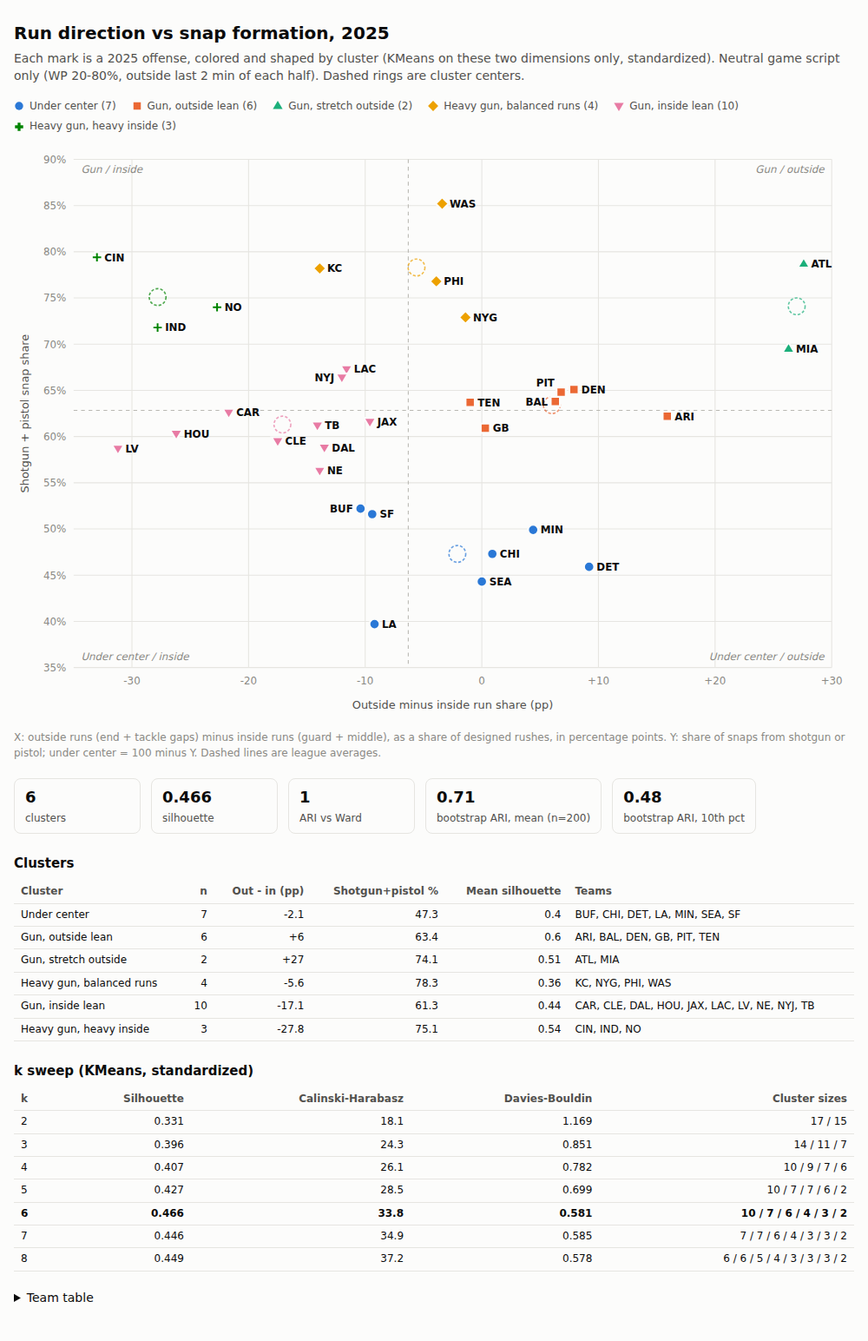
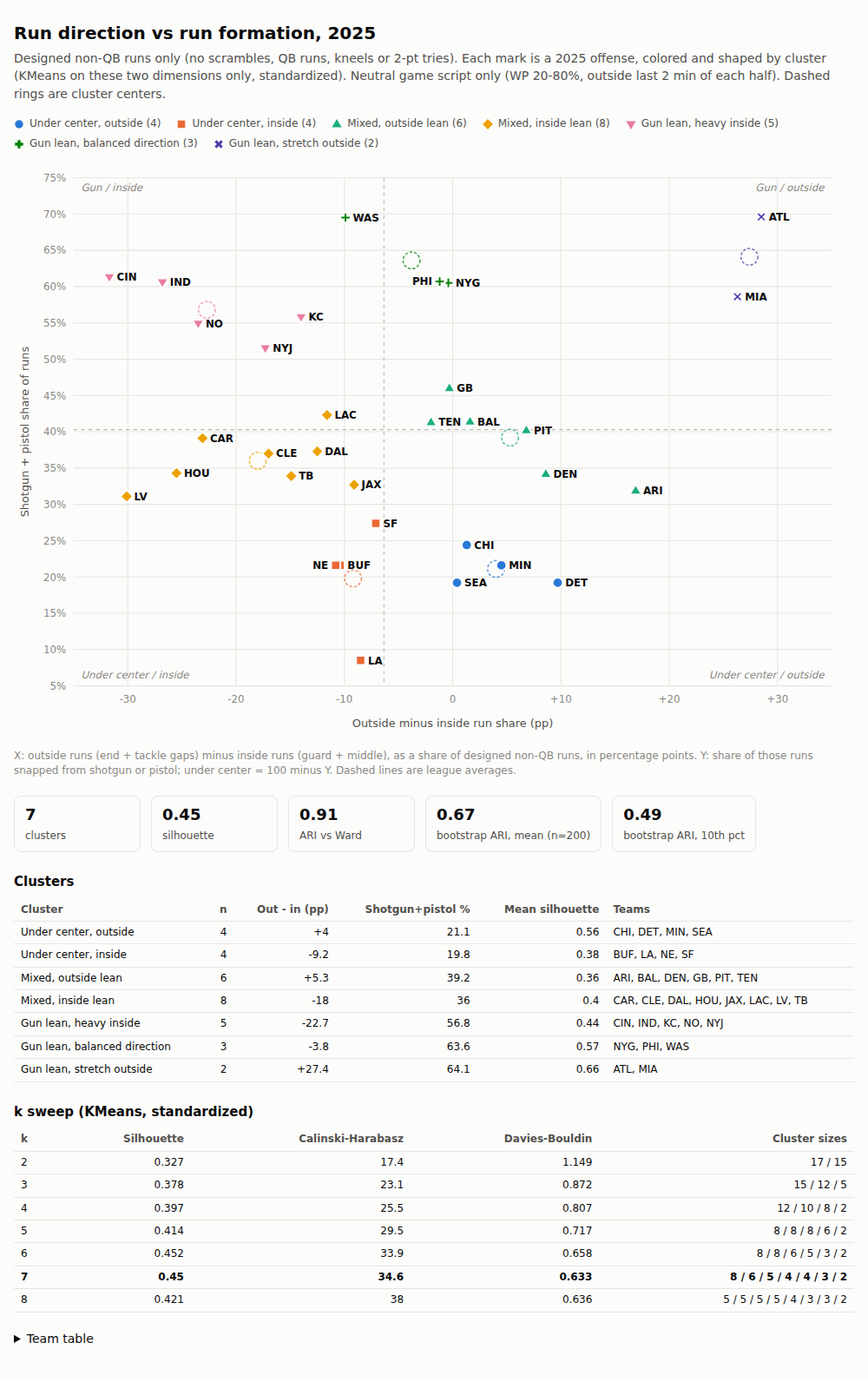
Recompute run direction and shotgun share on designed non-QB runs only; k=7
Claude-Session: https://claude.ai/code/session_019aSyvrggK4BuK9kNQDeVgm

diff --git a/output/run_formation_scatter_2025.html b/output/run_formation_scatter_2025.html
@@ -14,7 +14,7 @@
   --grid: #e6e5e1;
   --axis: #b9b8b2;
   --series-1: #2a78d6;
-  --c0: #2a78d6; --c1: #eb6834; --c2: #1baf7a; --c3: #eda100; --c4: #e87ba4; --c5: #008300;
+  --c0: #2a78d6; --c1: #eb6834; --c2: #1baf7a; --c3: #eda100; --c4: #e87ba4; --c5: #008300; --c6: #4a3aa7;
 }
 @media (prefers-color-scheme: dark) {
   :root:not([data-theme="light"]) {
@@ -26,7 +26,7 @@
     --grid: #2e2e2c;
     --axis: #55544f;
     --series-1: #3987e5;
-    --c0: #3987e5; --c1: #d95926; --c2: #199e70; --c3: #c98500; --c4: #d55181; --c5: #008300;
+    --c0: #3987e5; --c1: #d95926; --c2: #199e70; --c3: #c98500; --c4: #d55181; --c5: #008300; --c6: #9085e9;
   }
 }
 :root[data-theme="dark"] {
@@ -38,7 +38,7 @@
   --grid: #2e2e2c;
   --axis: #55544f;
   --series-1: #3987e5;
---c0: #3987e5; --c1: #d95926; --c2: #199e70; --c3: #c98500; --c4: #d55181; --c5: #008300;
+--c0: #3987e5; --c1: #d95926; --c2: #199e70; --c3: #c98500; --c4: #d55181; --c5: #008300; --c6: #9085e9;
 }
 body { margin: 0; background: var(--surface-1); color: var(--text-primary);
   font: 14px/1.45 system-ui, -apple-system, "Segoe UI", sans-serif; }
@@ -82,11 +82,11 @@ tr.pick td { font-weight: 700; }
 </head>
 <body>
 <main>
-  <h1>Run direction vs snap formation, 2025</h1>
-  <p class="sub">Each mark is a 2025 offense, colored and shaped by cluster (KMeans on these two dimensions only, standardized). Neutral game script only (WP 20-80%, outside last 2 min of each half). Dashed rings are cluster centers.</p>
+  <h1>Run direction vs run formation, 2025</h1>
+  <p class="sub">Designed non-QB runs only (no scrambles, QB runs, kneels or 2-pt tries). Each mark is a 2025 offense, colored and shaped by cluster (KMeans on these two dimensions only, standardized). Neutral game script only (WP 20-80%, outside last 2 min of each half). Dashed rings are cluster centers.</p>
   <div class="legend" id="legend"></div>
   <svg id="chart" viewBox="0 0 900 620" role="img" aria-label="Scatter of 32 NFL offenses"></svg>
-  <p class="note">X: outside runs (end + tackle gaps) minus inside runs (guard + middle), as a share of designed rushes, in percentage points. Y: share of snaps from shotgun or pistol; under center = 100 minus Y. Dashed lines are league averages.</p>
+  <p class="note">X: outside runs (end + tackle gaps) minus inside runs (guard + middle), as a share of designed non-QB runs, in percentage points. Y: share of those runs snapped from shotgun or pistol; under center = 100 minus Y. Dashed lines are league averages.</p>
   <div class="stats" id="stats"></div>
   <h2>Clusters</h2>
   <table id="ctbl"></table>
@@ -99,7 +99,7 @@ tr.pick td { font-weight: 700; }
 </main>
 <div id="tip"></div>
 <script>
-const payload = {"points": [{"team": "ARI", "x": 15.9, "y": 62.2, "outside": 58.0, "inside": 42.0, "uc": 37.8, "pistol": 3.1, "rush_n": 176, "cluster": 1, "cluster_name": "Gun, outside lean", "sil": 0.38}, {"team": "ATL", "x": 27.6, "y": 78.7, "outside": 63.8, "inside": 36.2, "uc": 21.3, "pistol": 34.8, "rush_n": 279, "cluster": 2, "cluster_name": "Gun, stretch outside", "sil": 0.58}, {"team": "BAL", "x": 6.3, "y": 63.8, "outside": 53.1, "inside": 46.9, "uc": 36.2, "pistol": 7.3, "rush_n": 271, "cluster": 1, "cluster_name": "Gun, outside lean", "sil": 0.76}, {"team": "BUF", "x": -10.4, "y": 52.2, "outside": 44.8, "inside": 55.2, "uc": 47.8, "pistol": 2.0, "rush_n": 288, "cluster": 0, "cluster_name": "Under center", "sil": 0.1}, {"team": "CAR", "x": -21.7, "y": 62.6, "outside": 39.1, "inside": 60.9, "uc": 37.4, "pistol": 9.5, "rush_n": 276, "cluster": 4, "cluster_name": "Gun, inside lean", "sil": 0.47}, {"team": "CHI", "x": 0.9, "y": 47.3, "outside": 50.5, "inside": 49.5, "uc": 52.7, "pistol": 2.3, "rush_n": 319, "cluster": 0, "cluster_name": "Under center", "sil": 0.59}, {"team": "CIN", "x": -33.0, "y": 79.4, "outside": 33.5, "inside": 66.5, "uc": 20.6, "pistol": 3.6, "rush_n": 206, "cluster": 5, "cluster_name": "Heavy gun, heavy inside", "sil": 0.57}, {"team": "CLE", "x": -17.5, "y": 59.5, "outside": 41.2, "inside": 58.8, "uc": 40.5, "pistol": 2.8, "rush_n": 257, "cluster": 4, "cluster_name": "Gun, inside lean", "sil": 0.65}, {"team": "DAL", "x": -13.5, "y": 58.8, "outside": 43.2, "inside": 56.8, "uc": 41.2, "pistol": 2.5, "rush_n": 259, "cluster": 4, "cluster_name": "Gun, inside lean", "sil": 0.57}, {"team": "DEN", "x": 7.9, "y": 65.1, "outside": 54.0, "inside": 46.0, "uc": 34.9, "pistol": 5.1, "rush_n": 291, "cluster": 1, "cluster_name": "Gun, outside lean", "sil": 0.73}, {"team": "DET", "x": 9.2, "y": 45.9, "outside": 54.6, "inside": 45.4, "uc": 54.1, "pistol": 0.5, "rush_n": 260, "cluster": 0, "cluster_name": "Under center", "sil": 0.41}, {"team": "GB", "x": 0.3, "y": 60.9, "outside": 50.2, "inside": 49.8, "uc": 39.1, "pistol": 7.0, "rush_n": 303, "cluster": 1, "cluster_name": "Gun, outside lean", "sil": 0.51}, {"team": "HOU", "x": -26.2, "y": 60.3, "outside": 36.9, "inside": 63.1, "uc": 39.7, "pistol": 0.0, "rush_n": 282, "cluster": 4, "cluster_name": "Gun, inside lean", "sil": 0.41}, {"team": "IND", "x": -27.8, "y": 71.8, "outside": 36.1, "inside": 63.9, "uc": 28.2, "pistol": 4.5, "rush_n": 255, "cluster": 5, "cluster_name": "Heavy gun, heavy inside", "sil": 0.55}, {"team": "JAX", "x": -9.6, "y": 61.6, "outside": 45.2, "inside": 54.8, "uc": 38.4, "pistol": 3.0, "rush_n": 239, "cluster": 4, "cluster_name": "Gun, inside lean", "sil": 0.36}, {"team": "KC", "x": -13.9, "y": 78.2, "outside": 43.0, "inside": 57.0, "uc": 21.8, "pistol": 3.5, "rush_n": 244, "cluster": 3, "cluster_name": "Heavy gun, balanced runs", "sil": 0.16}, {"team": "LA", "x": -9.2, "y": 39.7, "outside": 45.4, "inside": 54.6, "uc": 60.3, "pistol": 0.1, "rush_n": 284, "cluster": 0, "cluster_name": "Under center", "sil": 0.47}, {"team": "LAC", "x": -11.6, "y": 67.3, "outside": 44.2, "inside": 55.8, "uc": 32.7, "pistol": 4.1, "rush_n": 224, "cluster": 4, "cluster_name": "Gun, inside lean", "sil": 0.29}, {"team": "LV", "x": -31.2, "y": 58.7, "outside": 34.4, "inside": 65.6, "uc": 41.3, "pistol": 4.2, "rush_n": 218, "cluster": 4, "cluster_name": "Gun, inside lean", "sil": 0.28}, {"team": "MIA", "x": 26.3, "y": 69.5, "outside": 63.1, "inside": 36.9, "uc": 30.5, "pistol": 20.2, "rush_n": 198, "cluster": 2, "cluster_name": "Gun, stretch outside", "sil": 0.43}, {"team": "MIN", "x": 4.4, "y": 49.9, "outside": 52.2, "inside": 47.8, "uc": 50.1, "pistol": 0.9, "rush_n": 228, "cluster": 0, "cluster_name": "Under center", "sil": 0.4}, {"team": "NE", "x": -13.9, "y": 56.3, "outside": 43.1, "inside": 56.9, "uc": 43.7, "pistol": 0.1, "rush_n": 274, "cluster": 4, "cluster_name": "Gun, inside lean", "sil": 0.41}, {"team": "NO", "x": -22.7, "y": 74.0, "outside": 38.7, "inside": 61.3, "uc": 26.0, "pistol": 4.0, "rush_n": 256, "cluster": 5, "cluster_name": "Heavy gun, heavy inside", "sil": 0.51}, {"team": "NYG", "x": -1.4, "y": 72.9, "outside": 49.3, "inside": 50.7, "uc": 27.1, "pistol": 7.8, "rush_n": 276, "cluster": 3, "cluster_name": "Heavy gun, balanced runs", "sil": 0.21}, {"team": "NYJ", "x": -12.0, "y": 66.4, "outside": 44.0, "inside": 56.0, "uc": 33.6, "pistol": 5.2, "rush_n": 225, "cluster": 4, "cluster_name": "Gun, inside lean", "sil": 0.39}, {"team": "PHI", "x": -3.9, "y": 76.8, "outside": 48.0, "inside": 52.0, "uc": 23.2, "pistol": 6.5, "rush_n": 281, "cluster": 3, "cluster_name": "Heavy gun, balanced runs", "sil": 0.57}, {"team": "PIT", "x": 6.8, "y": 64.8, "outside": 53.4, "inside": 46.6, "uc": 35.2, "pistol": 2.4, "rush_n": 266, "cluster": 1, "cluster_name": "Gun, outside lean", "sil": 0.75}, {"team": "SEA", "x": 0.0, "y": 44.3, "outside": 50.0, "inside": 50.0, "uc": 55.7, "pistol": 3.6, "rush_n": 266, "cluster": 0, "cluster_name": "Under center", "sil": 0.62}, {"team": "SF", "x": -9.4, "y": 51.6, "outside": 45.3, "inside": 54.7, "uc": 48.4, "pistol": 2.6, "rush_n": 267, "cluster": 0, "cluster_name": "Under center", "sil": 0.22}, {"team": "TB", "x": -14.1, "y": 61.2, "outside": 43.0, "inside": 57.0, "uc": 38.8, "pistol": 4.3, "rush_n": 291, "cluster": 4, "cluster_name": "Gun, inside lean", "sil": 0.61}, {"team": "TEN", "x": -1.0, "y": 63.7, "outside": 49.5, "inside": 50.5, "uc": 36.3, "pistol": 2.6, "rush_n": 200, "cluster": 1, "cluster_name": "Gun, outside lean", "sil": 0.47}, {"team": "WAS", "x": -3.4, "y": 85.2, "outside": 48.3, "inside": 51.7, "uc": 14.8, "pistol": 19.7, "rush_n": 236, "cluster": 3, "cluster_name": "Heavy gun, balanced runs", "sil": 0.5}], "clusters": [{"name": "Under center", "teams": ["BUF", "CHI", "DET", "LA", "MIN", "SEA", "SF"], "x": -2.1, "y": 47.3, "sil": 0.4}, {"name": "Gun, outside lean", "teams": ["ARI", "BAL", "DEN", "GB", "PIT", "TEN"], "x": 6.0, "y": 63.4, "sil": 0.6}, {"name": "Gun, stretch outside", "teams": ["ATL", "MIA"], "x": 27.0, "y": 74.1, "sil": 0.51}, {"name": "Heavy gun, balanced runs", "teams": ["KC", "NYG", "PHI", "WAS"], "x": -5.6, "y": 78.3, "sil": 0.36}, {"name": "Gun, inside lean", "teams": ["CAR", "CLE", "DAL", "HOU", "JAX", "LAC", "LV", "NE", "NYJ", "TB"], "x": -17.1, "y": 61.3, "sil": 0.44}, {"name": "Heavy gun, heavy inside", "teams": ["CIN", "IND", "NO"], "x": -27.8, "y": 75.1, "sil": 0.54}], "sweep": [{"k": 2, "silhouette": 0.331, "calinski_harabasz": 18.1, "davies_bouldin": 1.169, "sizes": [17, 15]}, {"k": 3, "silhouette": 0.396, "calinski_harabasz": 24.3, "davies_bouldin": 0.851, "sizes": [14, 11, 7]}, {"k": 4, "silhouette": 0.407, "calinski_harabasz": 26.1, "davies_bouldin": 0.782, "sizes": [10, 9, 7, 6]}, {"k": 5, "silhouette": 0.427, "calinski_harabasz": 28.5, "davies_bouldin": 0.699, "sizes": [10, 7, 7, 6, 2]}, {"k": 6, "silhouette": 0.466, "calinski_harabasz": 33.8, "davies_bouldin": 0.581, "sizes": [10, 7, 6, 4, 3, 2]}, {"k": 7, "silhouette": 0.446, "calinski_harabasz": 34.9, "davies_bouldin": 0.585, "sizes": [7, 7, 6, 4, 3, 3, 2]}, {"k": 8, "silhouette": 0.449, "calinski_harabasz": 37.2, "davies_bouldin": 0.578, "sizes": [6, 6, 5, 4, 3, 3, 3, 2]}], "stats": {"k": 6, "silhouette": 0.466, "ward_ari": 1.0, "boot_ari_mean": 0.71, "boot_ari_p10": 0.48, "n_boot": 200}};
+const payload = {"points": [{"team": "ARI", "x": 16.9, "y": 31.9, "outside": 58.4, "inside": 41.6, "uc": 68.1, "pistol": 3.6, "rush_n": 166, "cluster": 2, "cluster_name": "Mixed, outside lean", "sil": 0.03}, {"team": "ATL", "x": 28.5, "y": 69.6, "outside": 64.3, "inside": 35.7, "uc": 30.4, "pistol": 59.8, "rush_n": 277, "cluster": 6, "cluster_name": "Gun lean, stretch outside", "sil": 0.68}, {"team": "BAL", "x": 1.6, "y": 41.4, "outside": 50.8, "inside": 49.2, "uc": 58.6, "pistol": 12.7, "rush_n": 251, "cluster": 2, "cluster_name": "Mixed, outside lean", "sil": 0.58}, {"team": "BUF", "x": -10.4, "y": 21.6, "outside": 44.8, "inside": 55.2, "uc": 78.4, "pistol": 1.2, "rush_n": 259, "cluster": 1, "cluster_name": "Under center, inside", "sil": 0.56}, {"team": "CAR", "x": -23.1, "y": 39.1, "outside": 38.5, "inside": 61.5, "uc": 60.9, "pistol": 14.2, "rush_n": 274, "cluster": 3, "cluster_name": "Mixed, inside lean", "sil": 0.44}, {"team": "CHI", "x": 1.3, "y": 24.4, "outside": 50.7, "inside": 49.3, "uc": 75.6, "pistol": 2.9, "rush_n": 307, "cluster": 0, "cluster_name": "Under center, outside", "sil": 0.51}, {"team": "CIN", "x": -31.7, "y": 61.3, "outside": 34.2, "inside": 65.8, "uc": 38.7, "pistol": 5.5, "rush_n": 199, "cluster": 4, "cluster_name": "Gun lean, heavy inside", "sil": 0.55}, {"team": "CLE", "x": -17.0, "y": 37.0, "outside": 41.5, "inside": 58.5, "uc": 63.0, "pistol": 3.5, "rush_n": 254, "cluster": 3, "cluster_name": "Mixed, inside lean", "sil": 0.58}, {"team": "DAL", "x": -12.5, "y": 37.3, "outside": 43.8, "inside": 56.2, "uc": 62.7, "pistol": 3.9, "rush_n": 256, "cluster": 3, "cluster_name": "Mixed, inside lean", "sil": 0.48}, {"team": "DEN", "x": 8.6, "y": 34.2, "outside": 54.3, "inside": 45.7, "uc": 65.8, "pistol": 6.7, "rush_n": 269, "cluster": 2, "cluster_name": "Mixed, outside lean", "sil": 0.25}, {"team": "DET", "x": 9.7, "y": 19.2, "outside": 54.8, "inside": 45.2, "uc": 80.8, "pistol": 0.8, "rush_n": 260, "cluster": 0, "cluster_name": "Under center, outside", "sil": 0.59}, {"team": "GB", "x": -0.3, "y": 46.0, "outside": 49.8, "inside": 50.2, "uc": 54.0, "pistol": 10.0, "rush_n": 291, "cluster": 2, "cluster_name": "Mixed, outside lean", "sil": 0.36}, {"team": "HOU", "x": -25.5, "y": 34.3, "outside": 37.2, "inside": 62.8, "uc": 65.7, "pistol": 0.0, "rush_n": 274, "cluster": 3, "cluster_name": "Mixed, inside lean", "sil": 0.5}, {"team": "IND", "x": -26.8, "y": 60.6, "outside": 36.6, "inside": 63.4, "uc": 39.4, "pistol": 7.3, "rush_n": 247, "cluster": 4, "cluster_name": "Gun lean, heavy inside", "sil": 0.6}, {"team": "JAX", "x": -9.1, "y": 32.7, "outside": 45.5, "inside": 54.5, "uc": 67.3, "pistol": 5.0, "rush_n": 220, "cluster": 3, "cluster_name": "Mixed, inside lean", "sil": 0.03}, {"team": "KC", "x": -14.0, "y": 55.8, "outside": 43.0, "inside": 57.0, "uc": 44.2, "pistol": 5.4, "rush_n": 242, "cluster": 4, "cluster_name": "Gun lean, heavy inside", "sil": 0.15}, {"team": "LA", "x": -8.5, "y": 8.5, "outside": 45.7, "inside": 54.3, "uc": 91.5, "pistol": 0.0, "rush_n": 282, "cluster": 1, "cluster_name": "Under center, inside", "sil": 0.19}, {"team": "LAC", "x": -11.6, "y": 42.3, "outside": 44.2, "inside": 55.8, "uc": 57.7, "pistol": 7.9, "rush_n": 215, "cluster": 3, "cluster_name": "Mixed, inside lean", "sil": 0.36}, {"team": "LV", "x": -30.1, "y": 31.1, "outside": 34.9, "inside": 65.1, "uc": 68.9, "pistol": 4.3, "rush_n": 209, "cluster": 3, "cluster_name": "Mixed, inside lean", "sil": 0.37}, {"team": "MIA", "x": 26.3, "y": 58.6, "outside": 63.1, "inside": 36.9, "uc": 41.4, "pistol": 31.3, "rush_n": 198, "cluster": 6, "cluster_name": "Gun lean, stretch outside", "sil": 0.64}, {"team": "MIN", "x": 4.5, "y": 21.6, "outside": 52.3, "inside": 47.7, "uc": 78.4, "pistol": 1.8, "rush_n": 222, "cluster": 0, "cluster_name": "Under center, outside", "sil": 0.68}, {"team": "NE", "x": -10.8, "y": 21.6, "outside": 44.6, "inside": 55.4, "uc": 78.4, "pistol": 0.4, "rush_n": 260, "cluster": 1, "cluster_name": "Under center, inside", "sil": 0.57}, {"team": "NO", "x": -23.5, "y": 54.9, "outside": 38.2, "inside": 61.8, "uc": 45.1, "pistol": 8.8, "rush_n": 204, "cluster": 4, "cluster_name": "Gun lean, heavy inside", "sil": 0.58}, {"team": "NYG", "x": -0.4, "y": 60.5, "outside": 49.8, "inside": 50.2, "uc": 39.5, "pistol": 16.1, "rush_n": 249, "cluster": 5, "cluster_name": "Gun lean, balanced direction", "sil": 0.68}, {"team": "NYJ", "x": -17.3, "y": 51.5, "outside": 41.3, "inside": 58.7, "uc": 48.5, "pistol": 8.2, "rush_n": 196, "cluster": 4, "cluster_name": "Gun lean, heavy inside", "sil": 0.34}, {"team": "PHI", "x": -1.2, "y": 60.7, "outside": 49.4, "inside": 50.6, "uc": 39.3, "pistol": 12.1, "rush_n": 247, "cluster": 5, "cluster_name": "Gun lean, balanced direction", "sil": 0.7}, {"team": "PIT", "x": 6.8, "y": 40.2, "outside": 53.4, "inside": 46.6, "uc": 59.8, "pistol": 3.8, "rush_n": 266, "cluster": 2, "cluster_name": "Mixed, outside lean", "sil": 0.55}, {"team": "SEA", "x": 0.4, "y": 19.2, "outside": 50.2, "inside": 49.8, "uc": 80.8, "pistol": 4.2, "rush_n": 265, "cluster": 0, "cluster_name": "Under center, outside", "sil": 0.46}, {"team": "SF", "x": -7.1, "y": 27.4, "outside": 46.4, "inside": 53.6, "uc": 72.6, "pistol": 4.4, "rush_n": 252, "cluster": 1, "cluster_name": "Under center, inside", "sil": 0.2}, {"team": "TB", "x": -14.9, "y": 33.9, "outside": 42.6, "inside": 57.4, "uc": 66.1, "pistol": 7.3, "rush_n": 289, "cluster": 3, "cluster_name": "Mixed, inside lean", "sil": 0.44}, {"team": "TEN", "x": -2.0, "y": 41.3, "outside": 49.0, "inside": 51.0, "uc": 58.7, "pistol": 4.1, "rush_n": 196, "cluster": 2, "cluster_name": "Mixed, outside lean", "sil": 0.41}, {"team": "WAS", "x": -9.9, "y": 69.5, "outside": 45.1, "inside": 54.9, "uc": 30.5, "pistol": 32.4, "rush_n": 213, "cluster": 5, "cluster_name": "Gun lean, balanced direction", "sil": 0.34}], "clusters": [{"name": "Under center, outside", "teams": ["CHI", "DET", "MIN", "SEA"], "x": 4.0, "y": 21.1, "sil": 0.56}, {"name": "Under center, inside", "teams": ["BUF", "LA", "NE", "SF"], "x": -9.2, "y": 19.8, "sil": 0.38}, {"name": "Mixed, outside lean", "teams": ["ARI", "BAL", "DEN", "GB", "PIT", "TEN"], "x": 5.3, "y": 39.2, "sil": 0.36}, {"name": "Mixed, inside lean", "teams": ["CAR", "CLE", "DAL", "HOU", "JAX", "LAC", "LV", "TB"], "x": -18.0, "y": 36.0, "sil": 0.4}, {"name": "Gun lean, heavy inside", "teams": ["CIN", "IND", "KC", "NO", "NYJ"], "x": -22.7, "y": 56.8, "sil": 0.44}, {"name": "Gun lean, balanced direction", "teams": ["NYG", "PHI", "WAS"], "x": -3.8, "y": 63.6, "sil": 0.57}, {"name": "Gun lean, stretch outside", "teams": ["ATL", "MIA"], "x": 27.4, "y": 64.1, "sil": 0.66}], "sweep": [{"k": 2, "silhouette": 0.327, "calinski_harabasz": 17.4, "davies_bouldin": 1.149, "sizes": [17, 15]}, {"k": 3, "silhouette": 0.378, "calinski_harabasz": 23.1, "davies_bouldin": 0.872, "sizes": [15, 12, 5]}, {"k": 4, "silhouette": 0.397, "calinski_harabasz": 25.5, "davies_bouldin": 0.807, "sizes": [12, 10, 8, 2]}, {"k": 5, "silhouette": 0.414, "calinski_harabasz": 29.5, "davies_bouldin": 0.717, "sizes": [8, 8, 8, 6, 2]}, {"k": 6, "silhouette": 0.452, "calinski_harabasz": 33.9, "davies_bouldin": 0.658, "sizes": [8, 8, 6, 5, 3, 2]}, {"k": 7, "silhouette": 0.45, "calinski_harabasz": 34.6, "davies_bouldin": 0.633, "sizes": [8, 6, 5, 4, 4, 3, 2]}, {"k": 8, "silhouette": 0.421, "calinski_harabasz": 38.0, "davies_bouldin": 0.636, "sizes": [5, 5, 5, 5, 4, 3, 3, 2]}], "stats": {"k": 7, "silhouette": 0.45, "ward_ari": 0.91, "boot_ari_mean": 0.67, "boot_ari_p10": 0.49, "n_boot": 200}};
 const data = payload.points, clusters = payload.clusters, st = payload.stats;
 // color + shape double-encode cluster: 6 hues can't all separate for CVD in a scatter
 const shape = (c, r) => {
@@ -111,6 +111,7 @@ const shape = (c, r) => {
     `M0,${-a}L${a},0L0,${a}L${-a},0Z`,
     `M0,${a}L${a*.95},${-a*.6}H${-a*.95}Z`,
     `M${-r*.35},${-r}H${r*.35}V${-r*.35}H${r}V${r*.35}H${r*.35}V${r}H${-r*.35}V${r*.35}H${-r}V${-r*.35}H${-r*.35}Z`,
+    `M${-r},${-r*.55}L${-r*.55},${-r}L0,${-r*.45}L${r*.55},${-r}L${r},${-r*.55}L${r*.45},0L${r},${r*.55}L${r*.55},${r}L0,${r*.45}L${-r*.55},${r}L${-r},${r*.55}L${-r*.45},0Z`,
   ][c];
 };
 const W = 900, H = 620, m = {t: 20, r: 24, b: 56, l: 64};
@@ -147,7 +148,7 @@ el("line", {x1: m.l, x2: m.l + pw, y1: sy(my), y2: sy(my), class: "zero"});
 el("text", {x: m.l + pw / 2, y: H - 12, "text-anchor": "middle", class: "axis-title"}, svg,
    "Outside minus inside run share (pp)");
 el("text", {transform: `translate(16 ${m.t + ph / 2}) rotate(-90)`, "text-anchor": "middle", class: "axis-title"}, svg,
-   "Shotgun + pistol snap share");
+   "Shotgun + pistol share of runs");
 el("text", {x: m.l + 8, y: m.t + 14, class: "quad"}, svg, "Gun / inside");
 el("text", {x: m.l + pw - 8, y: m.t + 14, "text-anchor": "end", class: "quad"}, svg, "Gun / outside");
 el("text", {x: m.l + 8, y: m.t + ph - 8, class: "quad"}, svg, "Under center / inside");
@@ -182,7 +183,7 @@ data.forEach(d => {
     dot.classList.add("on");
     tip.innerHTML = `<b>${d.team}</b> <span>${d.cluster_name}</span><br><span>Out - in:</span> ${sign(d.x)} pp (${d.outside}% / ${d.inside}%)` +
       `<br><span>Shotgun+pistol:</span> ${d.y}% (pistol ${d.pistol}%)<br><span>Under center:</span> ${d.uc}%` +
-      `<br><span>Designed rushes:</span> ${d.rush_n}<br><span>Silhouette:</span> ${d.sil}`;
+      `<br><span>Designed runs:</span> ${d.rush_n}<br><span>Silhouette:</span> ${d.sil}`;
     tip.style.display = "block";
     const tx = Math.min(e.clientX + 14, window.innerWidth - tip.offsetWidth - 8);
     tip.style.left = tx + "px"; tip.style.top = (e.clientY + 14) + "px";
@@ -204,7 +205,7 @@ data.forEach(d => {
 
 const rows = [...data].sort((a, b) => b.x - a.x);
 document.getElementById("tbl").innerHTML =
-  "<tr><th>Team</th><th>Cluster</th><th>Out - in (pp)</th><th>Outside %</th><th>Inside %</th><th>Shotgun+pistol %</th><th>Pistol %</th><th>Under center %</th><th>Rushes</th></tr>" +
+  "<tr><th>Team</th><th>Cluster</th><th>Out - in (pp)</th><th>Outside %</th><th>Inside %</th><th>Shotgun+pistol %</th><th>Pistol %</th><th>Under center %</th><th>Runs</th></tr>" +
   rows.map(d => `<tr><td>${d.team}</td><td>${d.cluster_name}</td><td>${sign(d.x)}</td><td>${d.outside}</td><td>${d.inside}</td><td>${d.y}</td><td>${d.pistol}</td><td>${d.uc}</td><td>${d.rush_n}</td></tr>`).join("");
 </script>
 </body>

diff --git a/src/build_run_formation_scatter.py b/src/build_run_formation_scatter.py
@@ -1,12 +1,14 @@
-"""Scatter of 2025 offenses: outside-minus-inside run share (x) vs
-shotgun+pistol snap share (y). Both from the neutral-script feature files.
+"""Scatter of 2025 offenses on designed non-QB runs only (see
+build_run_features.py): outside-minus-inside run share (x) vs share of those
+runs snapped from shotgun or pistol (y).
 
-- outside = end + tackle runs, inside = guard + middle runs (share of rushes)
+- outside = end + tackle runs, inside = guard + middle runs
 - shotgun share counts pistol as shotgun; under center = 100 - y
 
 Teams are clustered on just these two dimensions (standardized, KMeans).
-k=6 is best on silhouette / Calinski-Harabasz / Davies-Bouldin across
-k=2-8, and Ward linkage gives the identical partition.
+k=6 and k=7 are tied on silhouette (0.453 / 0.451); k=7 wins on
+Davies-Bouldin and its extra split (under-center teams into inside vs
+outside runners) is the football-meaningful one, so k=7.
 
 Output: output/run_formation_scatter_2025.html,
         output/run_formation_clusters_2025.csv
@@ -22,21 +24,23 @@ from sklearn.metrics import (adjusted_rand_score, calinski_harabasz_score,
 from sklearn.preprocessing import StandardScaler
 
 SEASON = "2025"
-K = 6
+K = 7
 K_RANGE = range(2, 9)
 N_BOOT = 200
+FEATURES_PATH = "data/run_play_features.csv"  # from build_run_features.py
 OUT_PATH = "output/run_formation_scatter_2025.html"
 CSV_PATH = "output/run_formation_clusters_2025.csv"
 
 # Clusters are named by a member team rather than by KMeans index, so a
 # relabeling between runs can't silently swap names. Order = legend order.
 CLUSTER_NAMES = [
-    ("DET", "Under center"),
-    ("BAL", "Gun, outside lean"),
-    ("ATL", "Gun, stretch outside"),
-    ("WAS", "Heavy gun, balanced runs"),
-    ("CLE", "Gun, inside lean"),
-    ("CIN", "Heavy gun, heavy inside"),
+    ("DET", "Under center, outside"),
+    ("SF", "Under center, inside"),
+    ("BAL", "Mixed, outside lean"),
+    ("CLE", "Mixed, inside lean"),
+    ("CIN", "Gun lean, heavy inside"),
+    ("WAS", "Gun lean, balanced direction"),
+    ("ATL", "Gun lean, stretch outside"),
 ]
 
 
@@ -46,23 +50,18 @@ def load(path, team_col):
 
 
 def main():
-    gaps = load("data/team_season_features.csv", "team")
-    form = load("data/formation_personnel_features.csv", "posteam")
-
     points = []
-    for team in sorted(gaps):
-        g, f = gaps[team], form[team]
-        outside = float(g["pct_end"]) + float(g["pct_tackle"])
-        inside = float(g["pct_guard"]) + float(g["pct_middle"])
+    for team, r in sorted(load(FEATURES_PATH, "team").items()):
+        outside, inside = float(r["pct_outside"]), float(r["pct_inside"])
         points.append({
             "team": team,
             "x": round(100 * (outside - inside), 1),
-            "y": round(100 * float(f["pct_shotgun_or_pistol"]), 1),
+            "y": round(100 * float(r["pct_shotgun_or_pistol"]), 1),
             "outside": round(100 * outside, 1),
             "inside": round(100 * inside, 1),
-            "uc": round(100 * float(f["pct_under_center"]), 1),
-            "pistol": round(100 * float(f["pct_pistol"]), 1),
-            "rush_n": int(g["rush_n"]),
+            "uc": round(100 * float(r["pct_under_center"]), 1),
+            "pistol": round(100 * float(r["pct_pistol"]), 1),
+            "rush_n": int(r["run_n"]),
         })
 
     X = StandardScaler().fit_transform([[p["x"], p["y"]] for p in points])
@@ -147,7 +146,7 @@ TEMPLATE = r"""<!doctype html>
   --grid: #e6e5e1;
   --axis: #b9b8b2;
   --series-1: #2a78d6;
-  --c0: #2a78d6; --c1: #eb6834; --c2: #1baf7a; --c3: #eda100; --c4: #e87ba4; --c5: #008300;
+  --c0: #2a78d6; --c1: #eb6834; --c2: #1baf7a; --c3: #eda100; --c4: #e87ba4; --c5: #008300; --c6: #4a3aa7;
 }
 @media (prefers-color-scheme: dark) {
   :root:not([data-theme="light"]) {
@@ -159,7 +158,7 @@ TEMPLATE = r"""<!doctype html>
     --grid: #2e2e2c;
     --axis: #55544f;
     --series-1: #3987e5;
-    --c0: #3987e5; --c1: #d95926; --c2: #199e70; --c3: #c98500; --c4: #d55181; --c5: #008300;
+    --c0: #3987e5; --c1: #d95926; --c2: #199e70; --c3: #c98500; --c4: #d55181; --c5: #008300; --c6: #9085e9;
   }
 }
 :root[data-theme="dark"] {
@@ -171,7 +170,7 @@ TEMPLATE = r"""<!doctype html>
   --grid: #2e2e2c;
   --axis: #55544f;
   --series-1: #3987e5;
---c0: #3987e5; --c1: #d95926; --c2: #199e70; --c3: #c98500; --c4: #d55181; --c5: #008300;
+--c0: #3987e5; --c1: #d95926; --c2: #199e70; --c3: #c98500; --c4: #d55181; --c5: #008300; --c6: #9085e9;
 }
 body { margin: 0; background: var(--surface-1); color: var(--text-primary);
   font: 14px/1.45 system-ui, -apple-system, "Segoe UI", sans-serif; }
@@ -215,11 +214,11 @@ tr.pick td { font-weight: 700; }
 </head>
 <body>
 <main>
-  <h1>Run direction vs snap formation, 2025</h1>
-  <p class="sub">Each mark is a 2025 offense, colored and shaped by cluster (KMeans on these two dimensions only, standardized). Neutral game script only (WP 20-80%, outside last 2 min of each half). Dashed rings are cluster centers.</p>
+  <h1>Run direction vs run formation, 2025</h1>
+  <p class="sub">Designed non-QB runs only (no scrambles, QB runs, kneels or 2-pt tries). Each mark is a 2025 offense, colored and shaped by cluster (KMeans on these two dimensions only, standardized). Neutral game script only (WP 20-80%, outside last 2 min of each half). Dashed rings are cluster centers.</p>
   <div class="legend" id="legend"></div>
   <svg id="chart" viewBox="0 0 900 620" role="img" aria-label="Scatter of 32 NFL offenses"></svg>
-  <p class="note">X: outside runs (end + tackle gaps) minus inside runs (guard + middle), as a share of designed rushes, in percentage points. Y: share of snaps from shotgun or pistol; under center = 100 minus Y. Dashed lines are league averages.</p>
+  <p class="note">X: outside runs (end + tackle gaps) minus inside runs (guard + middle), as a share of designed non-QB runs, in percentage points. Y: share of those runs snapped from shotgun or pistol; under center = 100 minus Y. Dashed lines are league averages.</p>
   <div class="stats" id="stats"></div>
   <h2>Clusters</h2>
   <table id="ctbl"></table>
@@ -244,6 +243,7 @@ const shape = (c, r) => {
     `M0,${-a}L${a},0L0,${a}L${-a},0Z`,
     `M0,${a}L${a*.95},${-a*.6}H${-a*.95}Z`,
     `M${-r*.35},${-r}H${r*.35}V${-r*.35}H${r}V${r*.35}H${r*.35}V${r}H${-r*.35}V${r*.35}H${-r}V${-r*.35}H${-r*.35}Z`,
+    `M${-r},${-r*.55}L${-r*.55},${-r}L0,${-r*.45}L${r*.55},${-r}L${r},${-r*.55}L${r*.45},0L${r},${r*.55}L${r*.55},${r}L0,${r*.45}L${-r*.55},${r}L${-r},${r*.55}L${-r*.45},0Z`,
   ][c];
 };
 const W = 900, H = 620, m = {t: 20, r: 24, b: 56, l: 64};
@@ -280,7 +280,7 @@ el("line", {x1: m.l, x2: m.l + pw, y1: sy(my), y2: sy(my), class: "zero"});
 el("text", {x: m.l + pw / 2, y: H - 12, "text-anchor": "middle", class: "axis-title"}, svg,
    "Outside minus inside run share (pp)");
 el("text", {transform: `translate(16 ${m.t + ph / 2}) rotate(-90)`, "text-anchor": "middle", class: "axis-title"}, svg,
-   "Shotgun + pistol snap share");
+   "Shotgun + pistol share of runs");
 el("text", {x: m.l + 8, y: m.t + 14, class: "quad"}, svg, "Gun / inside");
 el("text", {x: m.l + pw - 8, y: m.t + 14, "text-anchor": "end", class: "quad"}, svg, "Gun / outside");
 el("text", {x: m.l + 8, y: m.t + ph - 8, class: "quad"}, svg, "Under center / inside");
@@ -315,7 +315,7 @@ data.forEach(d => {
     dot.classList.add("on");
     tip.innerHTML = `<b>${d.team}</b> <span>${d.cluster_name}</span><br><span>Out - in:</span> ${sign(d.x)} pp (${d.outside}% / ${d.inside}%)` +
       `<br><span>Shotgun+pistol:</span> ${d.y}% (pistol ${d.pistol}%)<br><span>Under center:</span> ${d.uc}%` +
-      `<br><span>Designed rushes:</span> ${d.rush_n}<br><span>Silhouette:</span> ${d.sil}`;
+      `<br><span>Designed runs:</span> ${d.rush_n}<br><span>Silhouette:</span> ${d.sil}`;
     tip.style.display = "block";
     const tx = Math.min(e.clientX + 14, window.innerWidth - tip.offsetWidth - 8);
     tip.style.left = tx + "px"; tip.style.top = (e.clientY + 14) + "px";
@@ -337,7 +337,7 @@ data.forEach(d => {
 
 const rows = [...data].sort((a, b) => b.x - a.x);
 document.getElementById("tbl").innerHTML =
-  "<tr><th>Team</th><th>Cluster</th><th>Out - in (pp)</th><th>Outside %</th><th>Inside %</th><th>Shotgun+pistol %</th><th>Pistol %</th><th>Under center %</th><th>Rushes</th></tr>" +
+  "<tr><th>Team</th><th>Cluster</th><th>Out - in (pp)</th><th>Outside %</th><th>Inside %</th><th>Shotgun+pistol %</th><th>Pistol %</th><th>Under center %</th><th>Runs</th></tr>" +
   rows.map(d => `<tr><td>${d.team}</td><td>${d.cluster_name}</td><td>${sign(d.x)}</td><td>${d.outside}</td><td>${d.inside}</td><td>${d.y}</td><td>${d.pistol}</td><td>${d.uc}</td><td>${d.rush_n}</td></tr>`).join("");
 </script>
 </body>

diff --git a/src/build_run_features.py b/src/build_run_features.py
@@ -1,0 +1,74 @@
+"""Run-play-only features: run direction and snap formation on designed
+non-QB runs.
+
+Play set (per team-season, neutral script - see neutral_script.py):
+  - play_type == "run" (called runs; kneels are their own play_type)
+  - no QB scrambles (those are called passes)
+  - no two-point tries
+  - no QB rushers: rusher's roster position is QB (drops designed QB runs,
+    sneaks, and QB keeps on RPO/option)
+
+Features:
+  - pct_outside / pct_inside: end + tackle vs guard + middle, over runs
+    with a direction tag
+  - pct_shotgun_or_pistol / pct_under_center / pct_pistol: over the same
+    runs with a formation tag (formation of the run snaps, not all snaps)
+
+Output: data/run_play_features.csv
+"""
+import nfl_data_py as nfl
+import pandas as pd
+
+from neutral_script import filter_neutral_script
+
+SEASONS = [2025]
+OUT_PATH = "data/run_play_features.csv"
+
+
+def main():
+    pbp = nfl.import_pbp_data(SEASONS, downcast=True, cache=False)
+    rosters = nfl.import_seasonal_rosters(SEASONS)
+    qb_ids = set(rosters.loc[rosters["position"] == "QB", "player_id"])
+
+    runs = pbp[
+        (pbp["play_type"] == "run")
+        & (pbp["qb_scramble"] != 1)
+        & (pbp["two_point_attempt"] != 1)
+        & (pbp["posteam"].notna())
+    ]
+    runs = filter_neutral_script(runs).copy()
+    n_before = len(runs)
+    runs = runs[~runs["rusher_player_id"].isin(qb_ids)]
+    print(f"dropped {n_before - len(runs)} QB runs, kept {len(runs)} designed non-QB runs")
+
+    # middle runs carry no run_gap value in nflfastR
+    runs["gap"] = runs["run_gap"]
+    runs.loc[runs["run_location"] == "middle", "gap"] = "middle"
+    runs["side"] = runs["gap"].map({"end": "outside", "tackle": "outside", "guard": "inside", "middle": "inside"})
+
+    keys = ["season", "posteam"]
+    side = runs[runs["side"].notna()].groupby(keys)["side"].value_counts(normalize=True).unstack(fill_value=0)
+    side.columns = [f"pct_{c}" for c in side.columns]
+    side["dir_n"] = runs[runs["side"].notna()].groupby(keys).size()
+
+    form = runs[runs["offense_formation"].notna()]
+    form_pct = form.groupby(keys)["offense_formation"].value_counts(normalize=True).unstack(fill_value=0)
+    out_form = pd.DataFrame({
+        "pct_shotgun_or_pistol": form_pct["SHOTGUN"] + form_pct["PISTOL"],
+        "pct_pistol": form_pct["PISTOL"],
+        "pct_under_center": form_pct["UNDER CENTER"],
+        "form_n": form.groupby(keys).size(),
+    })
+
+    out = side.join(out_form)
+    out["run_n"] = runs.groupby(keys).size()
+    out = out.reset_index().rename(columns={"posteam": "team"})
+    out = out[["season", "team", "run_n", "dir_n", "form_n", "pct_outside", "pct_inside",
+               "pct_shotgun_or_pistol", "pct_pistol", "pct_under_center"]]
+    out.to_csv(OUT_PATH, index=False)
+    print(f"wrote {len(out)} rows to {OUT_PATH}")
+    print(out.describe().round(3))
+
+
+if __name__ == "__main__":
+    main()

diff --git a/README.md b/README.md
@@ -33,6 +33,8 @@ pip install -r requirements.txt
 python3 src/build_features.py   # -> data/team_season_features.csv
 python3 src/cluster.py          # -> output/team_season_clusters.csv
 python3 src/build_viz.py        # -> output/cluster_viz.html (interactive)
+python3 src/build_run_features.py          # -> data/run_play_features.csv (designed non-QB runs)
+python3 src/build_run_formation_scatter.py # -> output/run_formation_scatter_2025.html
 ```
 
 ## Notes
